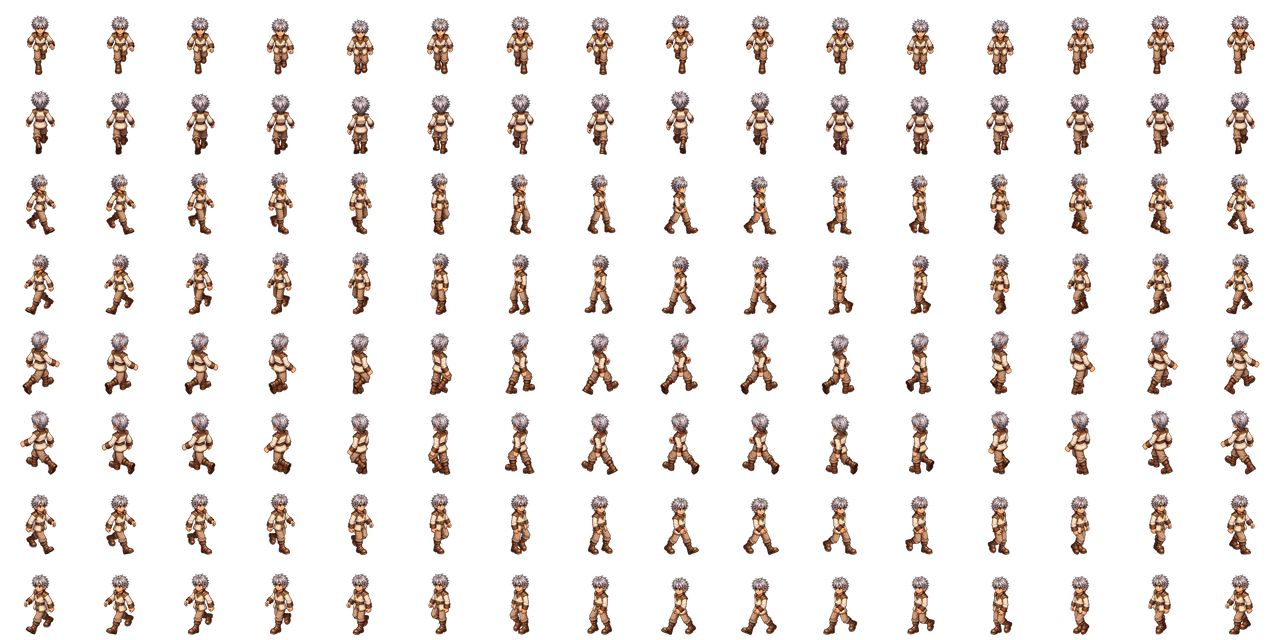
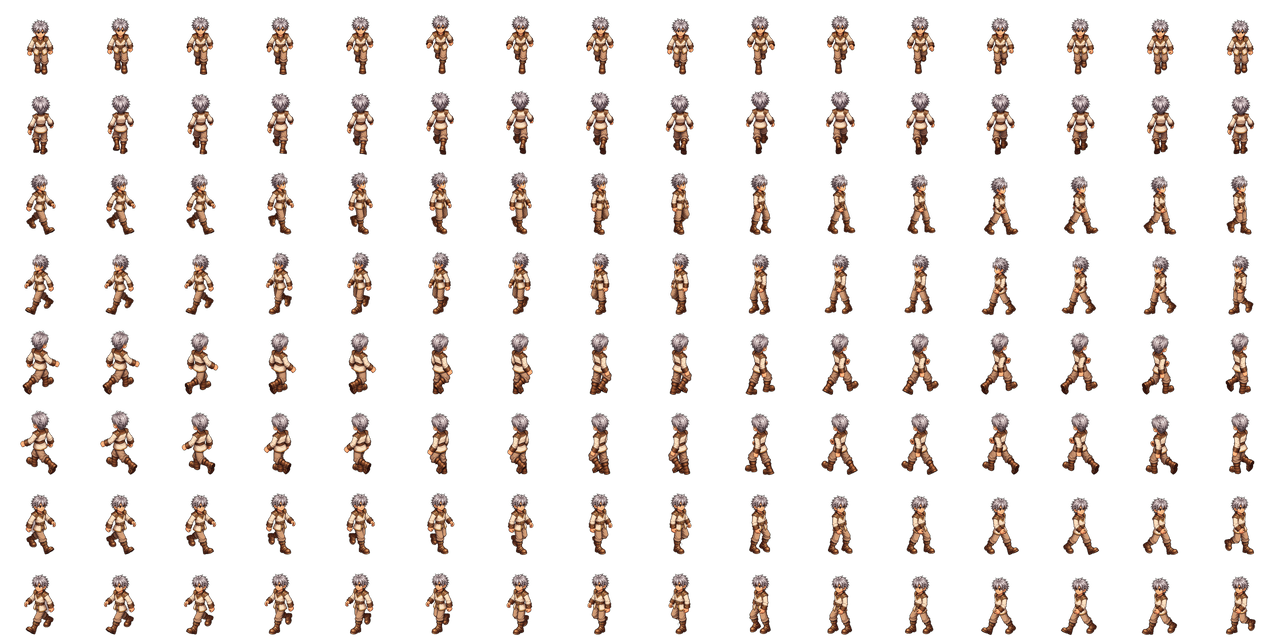
Sprites novas do personagem, e a fase da passada sai do motor
O dono mandou as dez folhas novas do autosprite (male, idle+walk, cinco
direcoes cada). O pipeline que ja existia deu conta delas sem mudanca:
`universal-fonte.mjs` mediu a grade de cada uma (8x7 de celula 256, menos
`idle_right`, que veio 7x7 de 768) e `universal2strip.mjs` montou as tiras.

🔴 E A TABELA DE FASE SAIU DO `main.ts`. Ontem eu tinha posto
`CONTATO_NO_QUADRO` la — o quadro em que o pe toca o chao, por direcao,
para o contato cair na fronteira do tile. As folhas novas quebraram a
tabela no primeiro dia, e o motivo importa: o contato NAO cai no mesmo
quadro no masculino e no feminino (medido: down q7 contra q4). A fase e
propriedade da ARTE, nao do motor.

Agora quem gira e o conversor, no corte. O motor voltou a tocar a tira
crua, e folha nova entra alinhada sem tocar em codigo.

⚠ DOIS SINAIS PARA MEDIR, e o segundo existe porque o primeiro e fraco de
frente: a abertura dos pes varia 60 px de perfil e so 6 de frente. A
ALTURA DO CORPO (da sola ao topo) responde o mesmo por outro caminho —
encolhe no contato, quando o quadril desce. Os dois sao impressos no log e
uma divergencia grande vira aviso, em vez de animacao torta.

⚠ A primeira versao do segundo sinal media o TOPO puro da celula, e isso
nao diz nada: os quadros do autosprite nao vem alinhados ao chao (quem
alinha e o `cola`, depois). Ele respondia "quadro 0" em todas as direcoes.
Medir da SOLA e o que o faz valer.

CONFERIDO de ponta a ponta com `tools/mede-passada.mjs`, que usa uma
[…]

diff --git a/client/src/main.ts b/client/src/main.ts
@@ -8152,49 +8152,6 @@ function creatureStepMs(e: EntitySnapshot): number | null {
 type StepCadence = ReturnType<typeof makeStepCadence>;
 
 /**
- * 🔴 **EM QUE QUADRO DO MEIO-CICLO O PÉ TOCA O CHÃO, por direção.**
- *
- * O jogo prende o ciclo de passos ao chão: cada tile atravessado consome meio
- * ciclo, para o pé plantar no instante em que o personagem chega ao tile. Isso
- * pressupõe que o quadro de CONTATO esteja no fim do meio-ciclo — e na folha
- * universal ele **não está no mesmo lugar nas oito direções**:
- *
- * | direção            | contato | deslocamento |
- * |--------------------|---------|--------------|
- * | down               | q4      | 4            |
- * | up                 | q5      | 3            |
- * | right / left       | q7      | 1            |
- * | up_right / up_left | q7      | 1            |
- * | down_right/-_left  | q0      | 0            |
- *
- * De lado o pé planta na FRONTEIRA do tile (q7 ≈ q0); de frente, no MEIO dele
- * (q4). Meia passada de diferença — e é ela que o dono via como *"andando para
- * baixo ele parece estar correndo"* e *"sensação de que está deslizando"*: de
- * frente o personagem chegava a cada tile no ar, com as pernas juntas, e
- * plantava o pé no vazio entre dois tiles.
- *
- * ✅ O deslocamento gira o meio-ciclo para o contato cair sempre na fronteira,
- * igual em todas as direções. Nada de arte foi alterado — só a fase.
- *
- * ⚠ **Os números são MEDIDOS, não escolhidos**, e valem para esta folha. Arte
- * nova = rodar `node tools/mede-passada.mjs <walk.png> <célula>` e atualizar a
- * tabela; a saída dele já vem com a coluna `deslocamento`.
- *
- * ⚠ Direção ausente = 0, que é o comportamento de antes desta tabela. Os packs
- * antigos (4 quadros, criaturas) continuam como estavam.
- */
-const CONTATO_NO_QUADRO: Partial<Record<Direction, number>> = {
-  down: 4,
-  up: 3,
-  right: 1,
-  left: 1,
-  up_right: 1,
-  up_left: 1,
-  down_right: 0,
-  down_left: 0,
-};
-
-/**
  * 🔴 **DE QUANTO EM QUANTO O CLIENTE PEDE UM PASSO.**
  *
  * Ele não decide quando anda — pede, e o servidor concede a cada
@@ -8903,16 +8860,15 @@ function makeMiniActor(opts: MiniActorOpts): EntityView {
          * no fim do tile, o módulo daria a volta para o quadro 0 da metade — um
          * piscão de um quadro para trás bem na hora da pisada.
          *
-         * 🔴 **O deslocamento gira o meio-ciclo para o CONTATO cair na fronteira
-         * do tile** — ver `CONTATO_NO_QUADRO`. Sem ele, andar de frente chegava
-         * a cada tile com as pernas juntas e plantava o pé no meio do caminho.
-         *
-         * ⚠ O `%` aqui é DENTRO da metade, então `paridade` continua escolhendo
-         * a perna: girar a fase não pode trocar de perna no meio do passo.
+         * 🔴 **A FASE JÁ VEM ALINHADA NA TIRA**, e por isso aqui não há
+         * deslocamento nenhum. Houve: uma tabela `CONTATO_NO_QUADRO` por
+         * direção viveu aqui por um dia. Ela quebrou assim que chegaram folhas
+         * novas, porque o quadro do contato **não cai no mesmo lugar no
+         * masculino e no feminino** — a fase é propriedade da ARTE, não do
+         * motor. Quem gira agora é `universal2strip.mjs`, no corte.
          */
-        const desloc = CONTATO_NO_QUADRO[dir] ?? 0;
         const dentro = Math.min(metade - 1, Math.floor(t * metade));
-        sprite.gotoAndStop((paridade ? 0 : metade) + (dentro + desloc) % metade);
+        sprite.gotoAndStop((paridade ? 0 : metade) + dentro);
         /*
          * O tronco sobe quando as pernas se cruzam e desce quando o pé bate. É
          * 1 px, e é o que separa "andando" de "recorte deslizando" — a escala é
@@ -8922,12 +8878,8 @@ function makeMiniActor(opts: MiniActorOpts): EntityView {
          * contato a contato, com as pernas cruzadas no meio, então o seno bate
          * exatamente onde o tronco deve estar mais alto.
          *
-         * ⚠ E acompanha a fase JÁ GIRADA. Deixá-lo no `t` cru punha o tronco no
-         * alto justamente no quadro do contato, nas direções deslocadas — o
-         * personagem subia quando devia estar batendo o pé.
          */
-        const fase = ((t * metade + desloc) % metade) / metade;
-        bob = Math.round(Math.sin(fase * Math.PI));
+        bob = Math.round(Math.sin(t * Math.PI));
       }
     }
 
